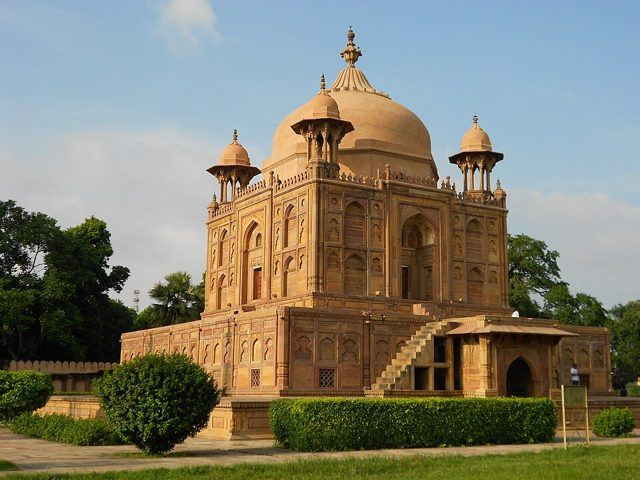
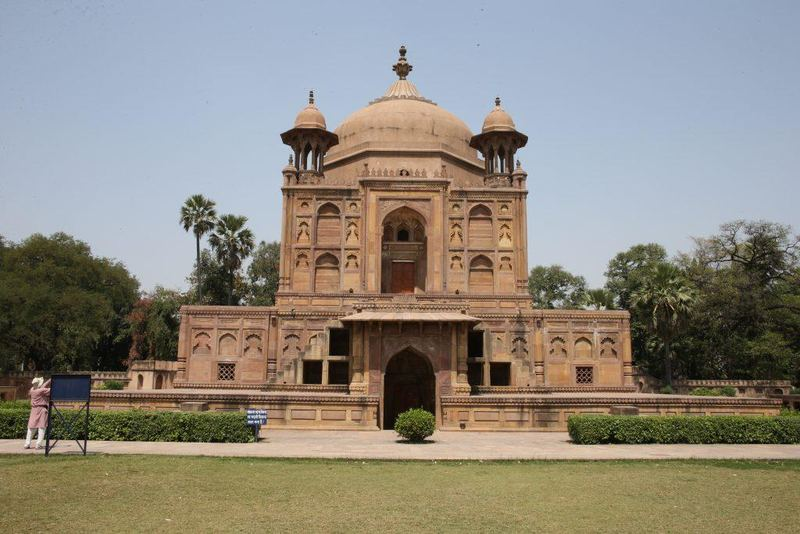
Room guide: use owner photo for Khusro Bagh
Claude-Session: https://claude.ai/code/session_01G9R1cmkjzAAWyWxPUiKgxj

diff --git a/room-guide/images.js b/room-guide/images.js
@@ -70,9 +70,8 @@ window.PLACE_IMG = {
   },
   khusro: {
     file: 'places/khusro.jpg',
-    credit: 'सत्यम् मिश्र',
-    license: 'CC BY-SA 4.0',
-    url: 'https://commons.wikimedia.org/wiki/File:Tomb_of_Nisar_Begum_at_Khusro_Bagh_Allahabad.jpg',
+    credit: 'supplied by the owner',
+    license: "used with the owner's permission",
   },
   cathedral: {
     file: 'places/cathedral.jpg',

diff --git a/room-guide/places/CREDITS.md b/room-guide/places/CREDITS.md
@@ -9,7 +9,7 @@ Each page link has the original file, author and licence text.
 - anand: Balasub, CC BY-SA 2.0, https://commons.wikimedia.org/wiki/File:Anand_Bhawan,_Allahabad.jpg
 - azadpark: Vyomtripathi, CC BY-SA 4.0, https://commons.wikimedia.org/wiki/File:Victoria_Memorial_Allahabad.jpg
 - planetarium: Dananuj, CC BY-SA 3.0, https://commons.wikimedia.org/wiki/File:Jawahar_Planetarium,_Allahabad_Jan_2014_AJ.jpg
-- khusro: सत्यम् मिश्र, CC BY-SA 4.0, https://commons.wikimedia.org/wiki/File:Tomb_of_Nisar_Begum_at_Khusro_Bagh_Allahabad.jpg
+- khusro: photo supplied by the owner (original photographer not known), used with the owner's permission. Replaces the earlier Wikimedia Commons photo.
 - cathedral: Ar.anujgupta, CC BY-SA 4.0, https://commons.wikimedia.org/wiki/File:All_Saints_Cathedral,_Prayagraj,_Uttar_Pradesh,_India_(2018)142.jpg
 - nagvasuki: 21GauriGuptaa, CC0, https://commons.wikimedia.org/wiki/File:NaagvasukiTemple.jpg
 - bridge: Bhartrihari Pandiya, CC BY-SA 4.0, https://commons.wikimedia.org/wiki/File:Naini_Bridge_@_Allahabad.jpg
